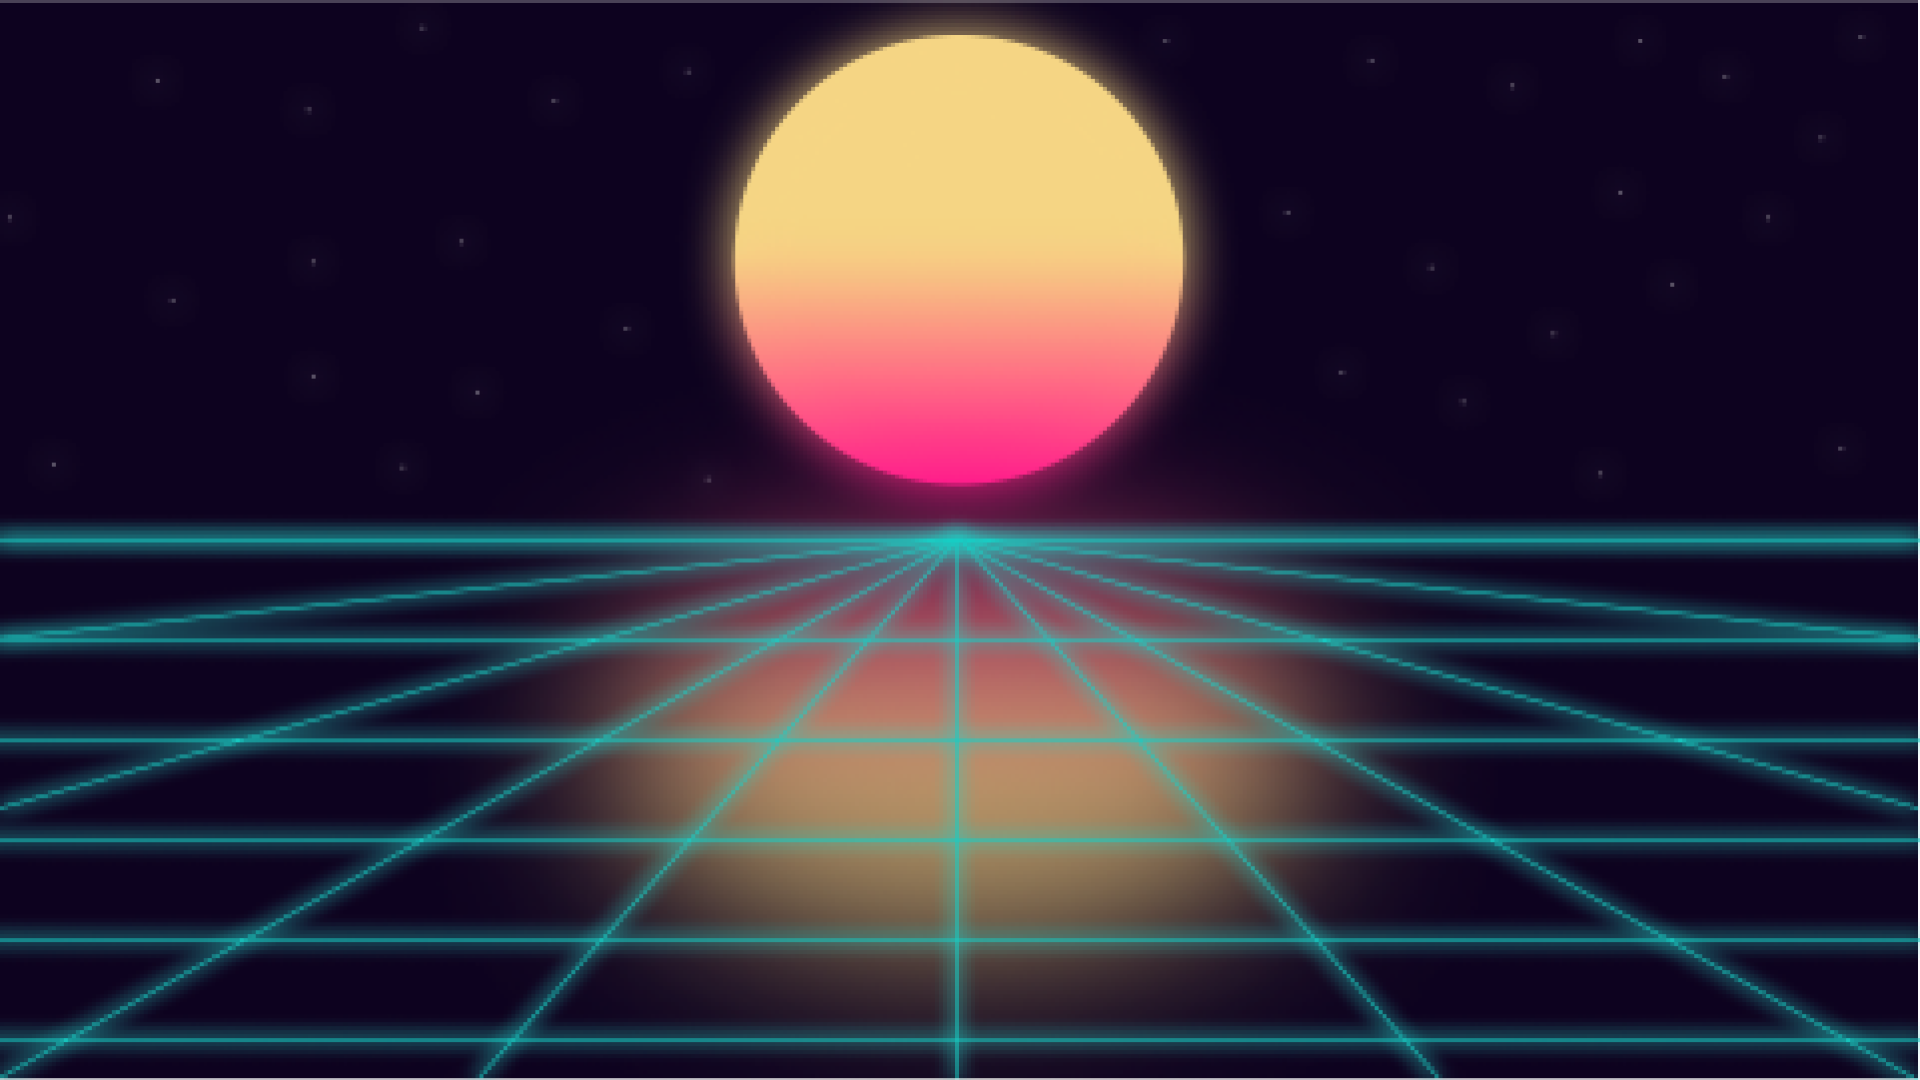
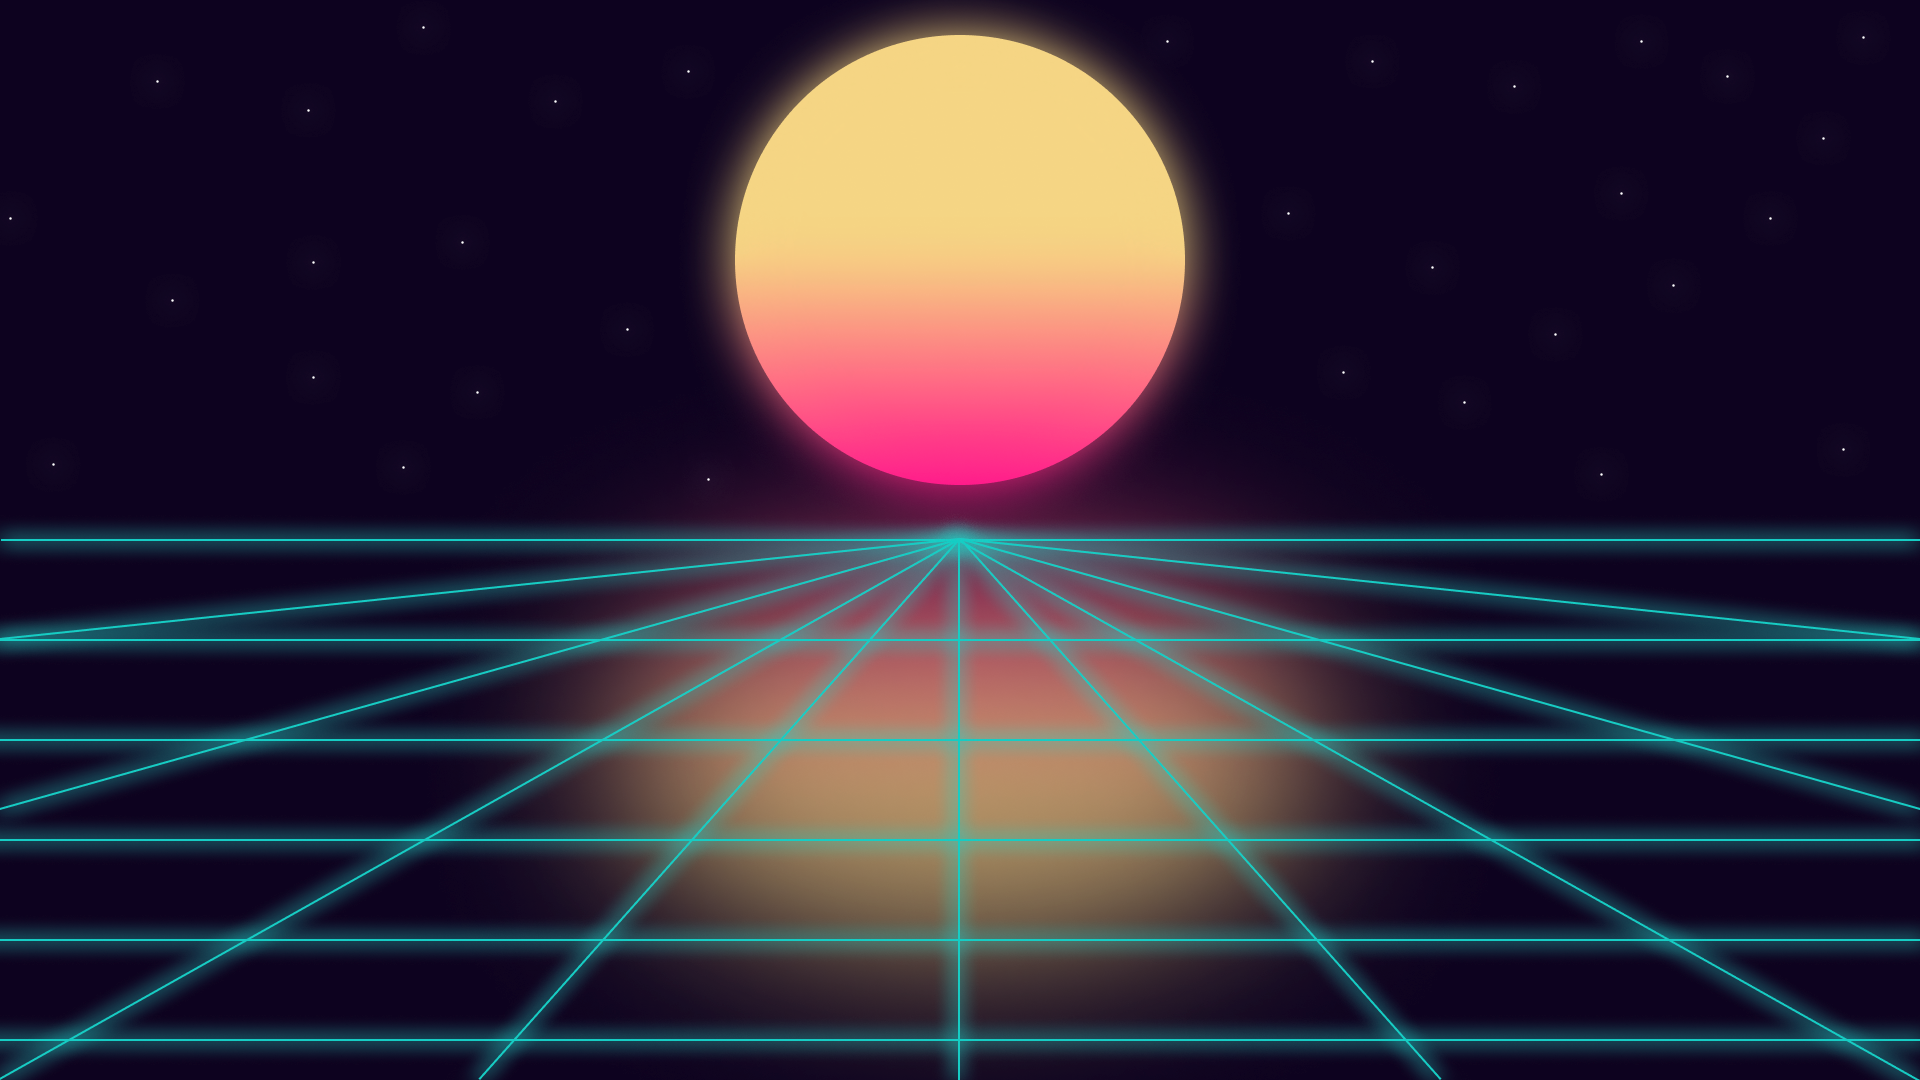
Replaces video with image in mobile format

diff --git a/style.css b/style.css
@@ -147,6 +147,10 @@ video {
   width: 100%;
 }
 
+.hero-image {
+  display: none;
+}
+
 .hidden-menu img {
   position: absolute;
   left: 0;
@@ -429,6 +433,17 @@ footer span {
   header {
     padding: 1rem 1rem;
     top: 0;
+  }
+
+  video {
+    display: none;
+  }
+
+  .hero-image {
+    display: inline-block;
+    width: 100%;
+    height: 100vh;
+    object-fit: cover;
   }
 
   .page-container {

diff --git a/index.html b/index.html
@@ -30,6 +30,7 @@
       muted
       loop
     ></video>
+    <img class="hero-image" src="./images/sun.png" alt="The Sun" />
     <div class="page-container">
       <section class="page-section section-one">
         <img
